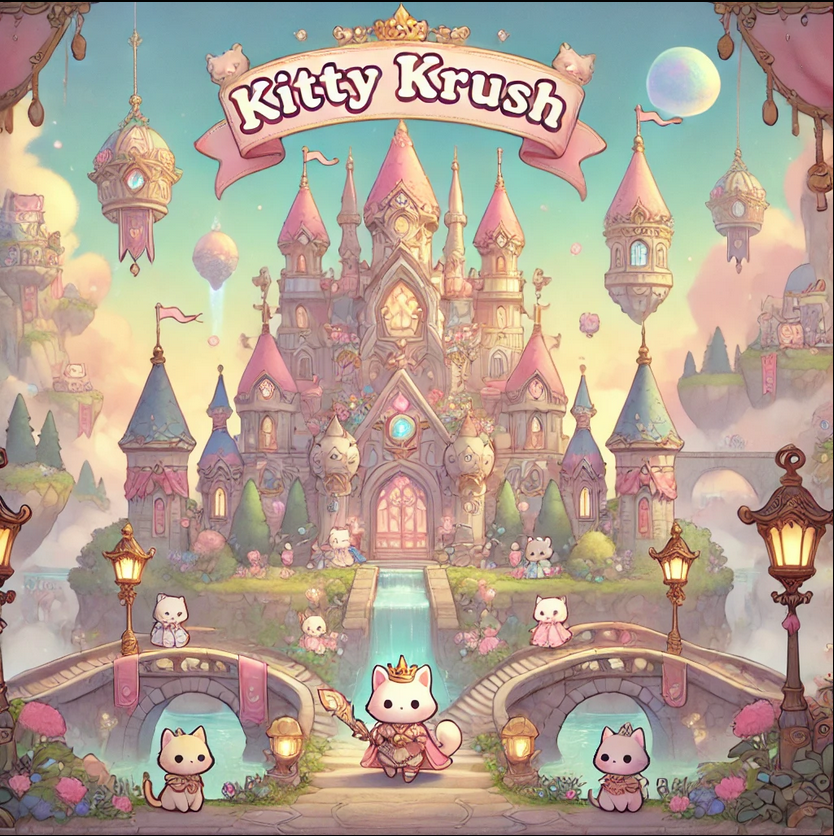
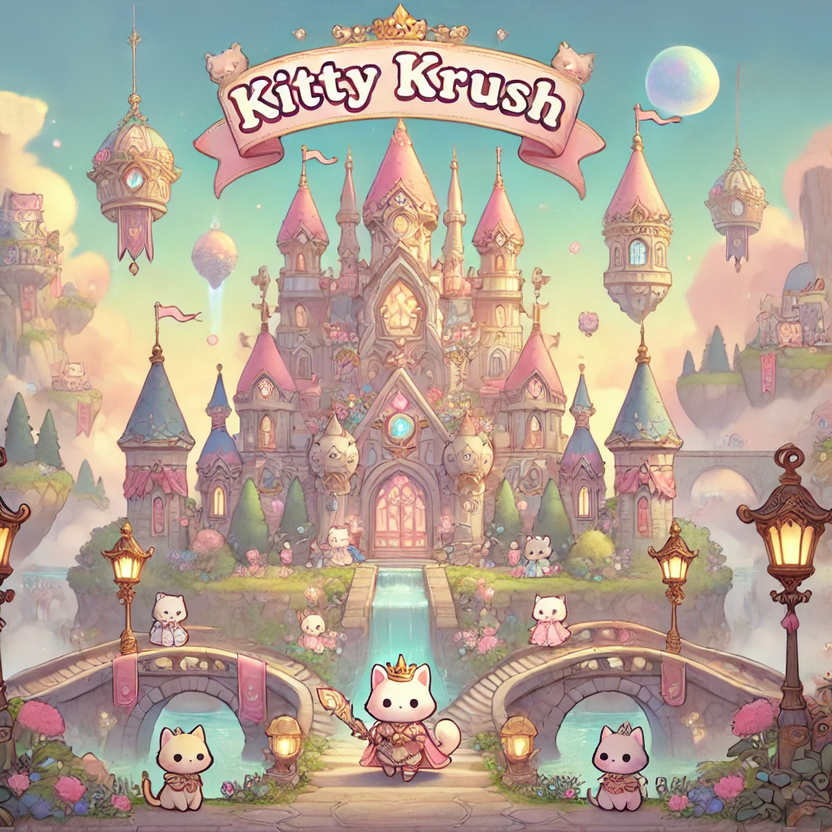
Updated background image

diff --git a/src/view_menus.cpp b/src/view_menus.cpp
@@ -127,7 +127,7 @@ void MainView::init_page_main_menu() {
         //
         new WindowEltSprite(
             this->win_page_manager->default_style,  // Style*           style,
-            "res/bgs/bg_main_menu_2.jpg",           // std::string      img_path,
+            "res/bgs/bg_main_menu_2.png",           // std::string      img_path,
             nvi(0),                                 // Value*           x,
             new ValueInt(0),                        // Value*           y,
             nvpww(100, win_attr),                   // Value*           w,
@@ -138,7 +138,7 @@ void MainView::init_page_main_menu() {
             SPRITE_NO_CROP(),                       // SpriteCrop*      sprite_crop         = SPRITE_NO_CROP(),
             // SPRITE_RATIO_CUSTOM(1, 1),           // SpriteRatio*     sprite_ratio        = SPRITE_RATIO_ORIGINAL(),
             SPRITE_RATIO_ORIGINAL(),                // SpriteRatio*     sprite_ratio        = SPRITE_RATIO_ORIGINAL(),
-            SPRITE_RESIZE_FIT(2.1),                 // SpriteResize*    sprite_resize       = SPRITE_RESIZE_KEEP_ORIGINAL(),
+            SPRITE_RESIZE_FIT(1.9),                 // SpriteResize*    sprite_resize       = SPRITE_RESIZE_KEEP_ORIGINAL(),
             SPRITE_POS_ALIGN_CENTER(),              // SpritePosition*  sprite_h_position   = SPRITE_POS_ALIGN_START(),
             SPRITE_POS_ALIGN_CENTER()               // SpritePosition*  sprite_v_position   = SPRITE_POS_ALIGN_START()
         )
@@ -154,7 +154,7 @@ void MainView::init_page_main_menu() {
             this->win_page_manager->default_style,  // Style*                           style
             "Play !",                               // std::string                      text
             nvpww(35, win_attr),                    // Value*                           x
-            nvpwh(50, win_attr),                    // Value*                           y
+            nvpwh(45, win_attr),                    // Value*                           y
             nvpww(30, win_attr),                    // Value*                           w
             nvi(100),                               // Value*                           h
             on_bt_change_page_to_in_game            // std::function<void(WindowEltClickable*, MainGame*)>    on_click
@@ -170,7 +170,7 @@ void MainView::init_page_main_menu() {
             this->win_page_manager->default_style,  // Style*                           style
             "Quit...",                              // std::string                      text
             nvpww(40, win_attr),                    // Value*                           x
-            nvpwh(75, win_attr),                    // Value*                           y
+            nvpwh(65, win_attr),                    // Value*                           y
             nvpww(20, win_attr),                    // Value*                           w
             nvi(40),                                // Value*                           h
             on_bt_quit_click                        // std::function<void(WindowEltClickable*, MainGame*)>    on_click

diff --git a/src/window_attributes.cpp b/src/window_attributes.cpp
@@ -89,12 +89,22 @@ Event* WindowAttributes::update_mouse_button_state(int button, int pressed){
     //
     else if( mouse_left_bt_clicked + mouse_right_bt_clicked > 0){
 
-        //
-        evt = new EventMouseClick(
+        if( euclidian_distance(
+            this->mouse_base_drag_x,
+            this->mouse_base_drag_y,
             this->mouse_x,
-            this->mouse_y,
-            button
-        );
+            this->mouse_y
+         ) <= MIN_DIST_DRAG
+        ){
+
+            //
+            evt = new EventMouseClick(
+                this->mouse_x,
+                this->mouse_y,
+                button
+            );
+
+        }
 
         //
         if( button == MOUSE_BUTTON_LEFT ){
